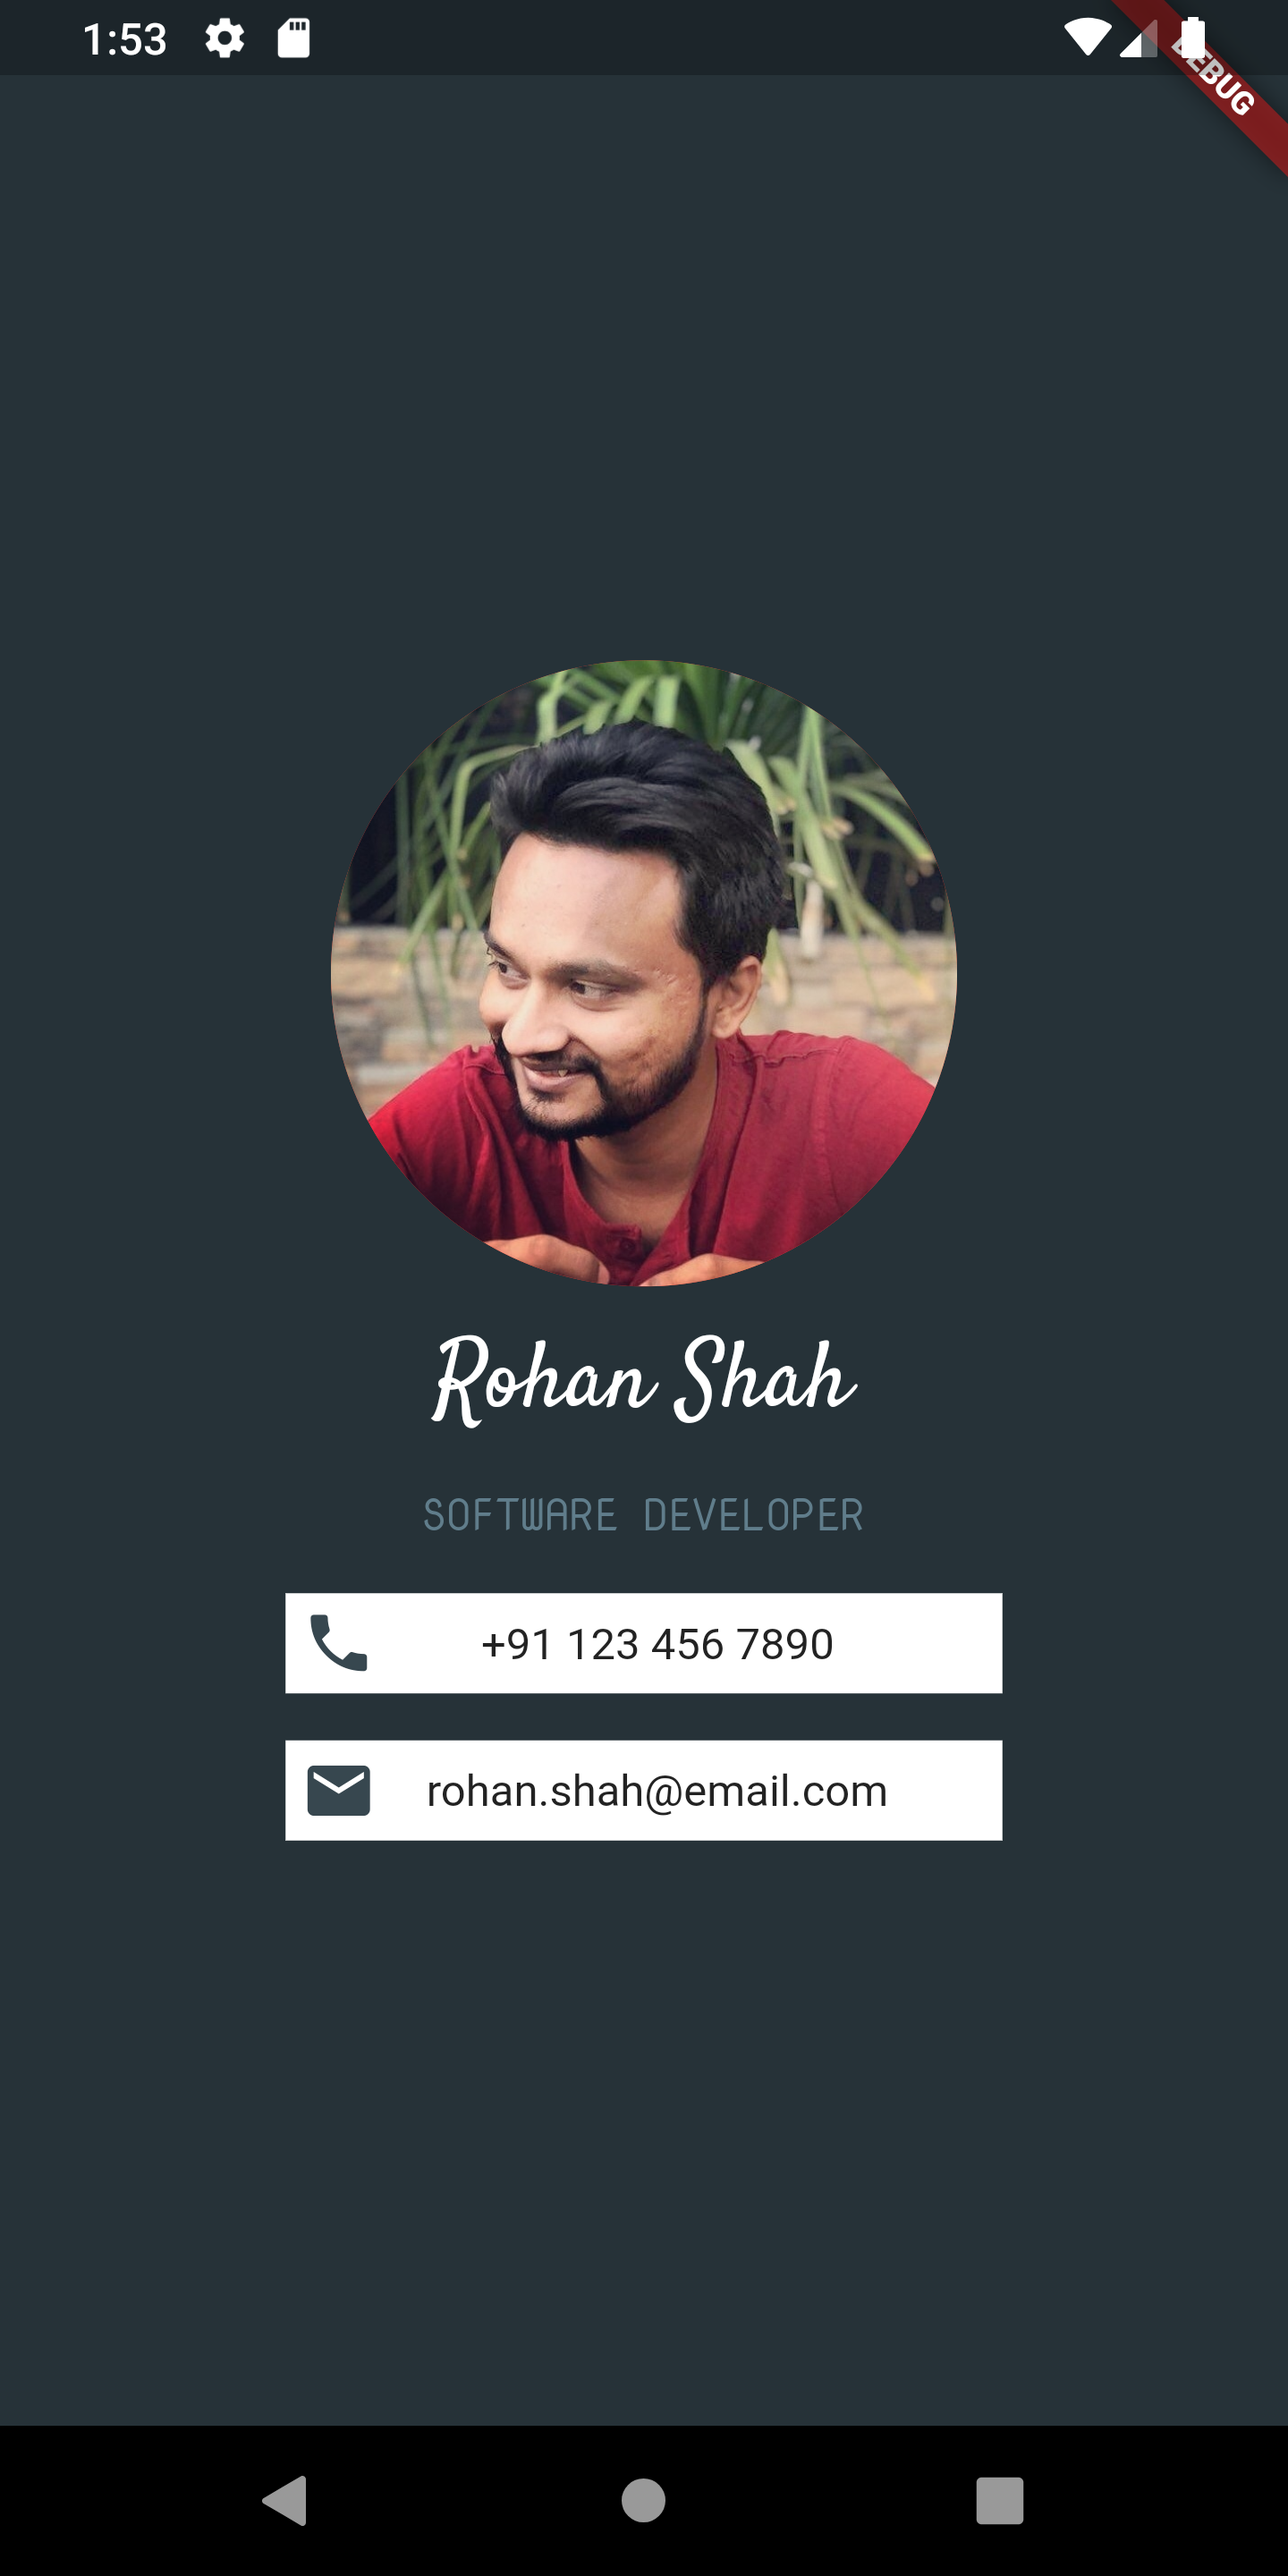
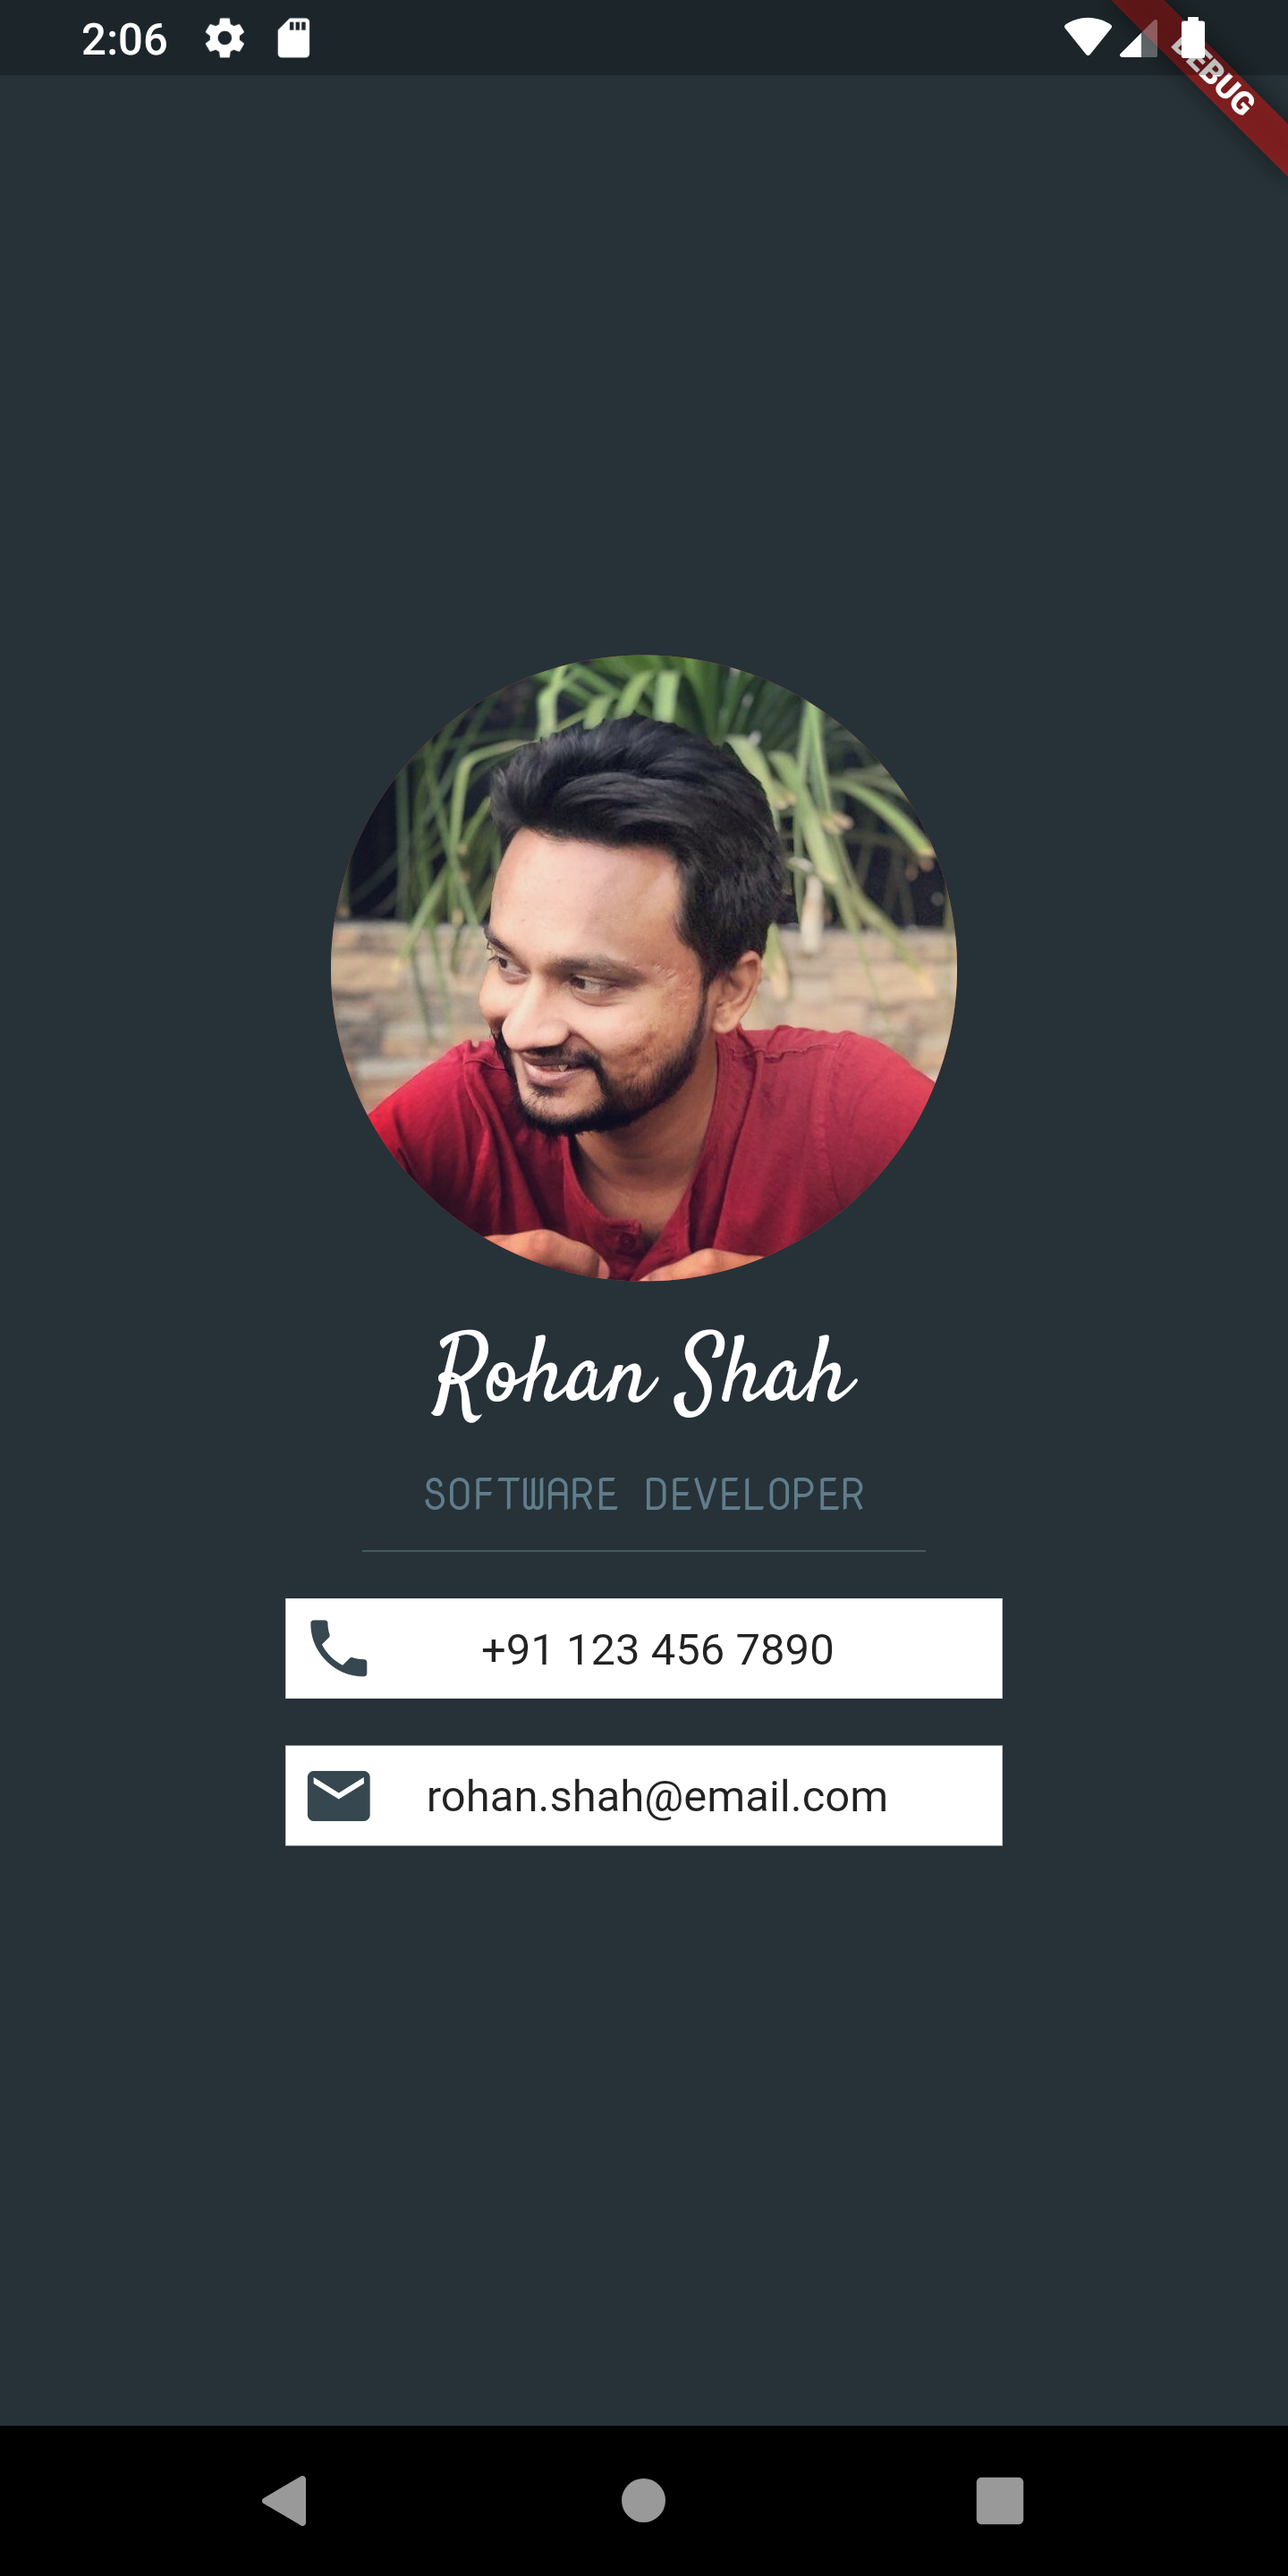
added underline after profile name

diff --git a/business_card/lib/main.dart b/business_card/lib/main.dart
@@ -31,9 +31,20 @@ class MyApp extends StatelessWidget {
                   ),
                 ),
                 Container(
-                  margin: EdgeInsets.only(top: 10),
+                  margin: EdgeInsets.only(top: 5),
+                  width: 180.0,
+                  padding: EdgeInsets.only(bottom: 8.0),
+                  decoration: BoxDecoration(
+                    border: Border(
+                      bottom: BorderSide(
+                        color: Colors.blueGrey,
+                        width: 0.3,
+                      ),
+                    ),
+                  ),
                   child: Text(
                     'SOFTWARE DEVELOPER',
+                    textAlign: TextAlign.center,
                     style: TextStyle(
                       fontSize: 14.0,
                       color: Colors.blueGrey,
